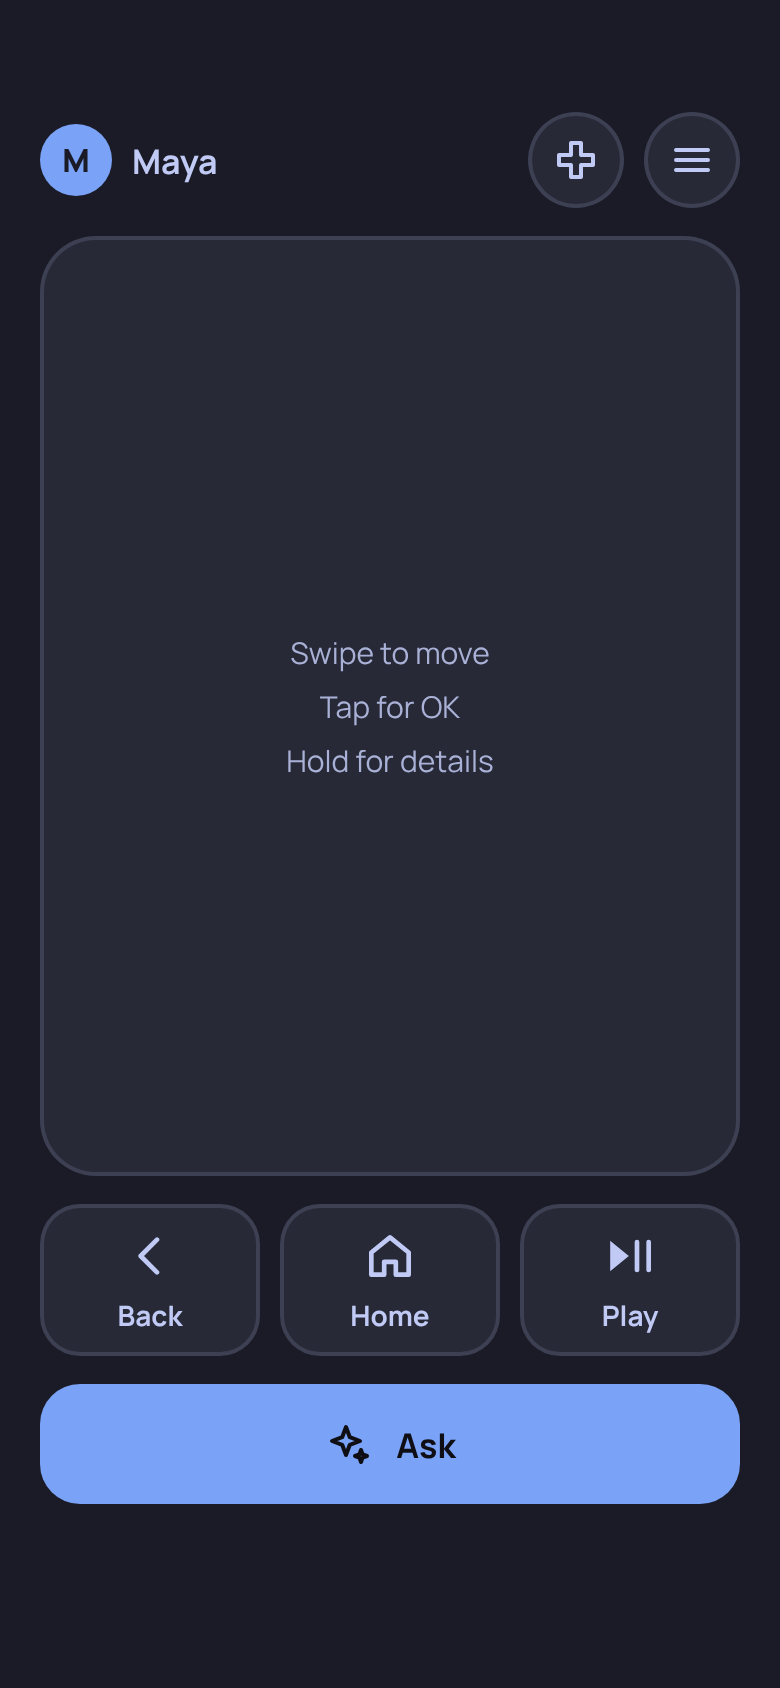
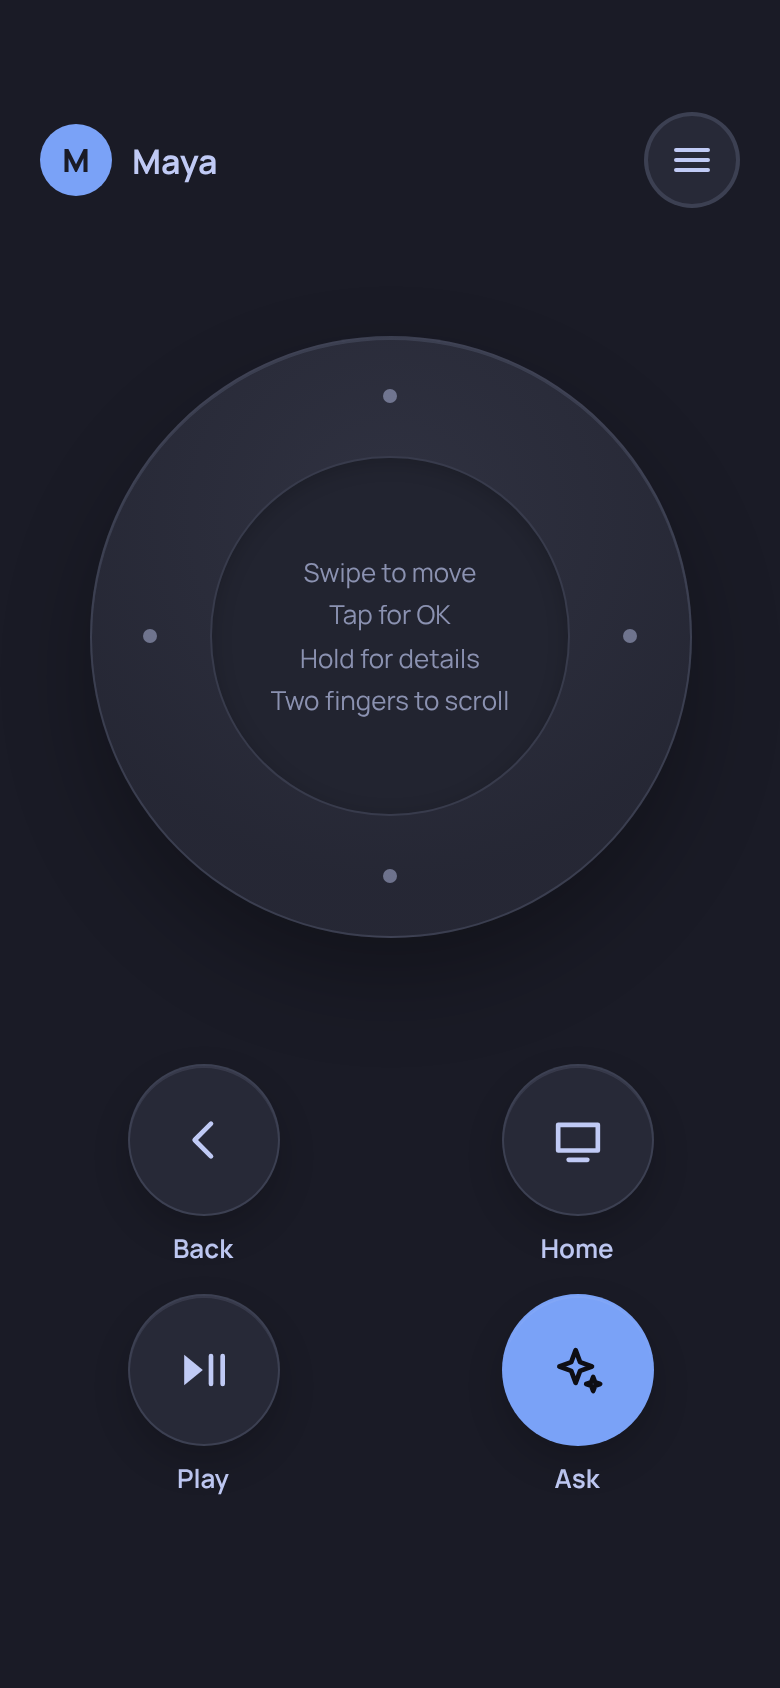
Show the new Glass home and remote in the README
The README's pictures were from before Glass home got its top row and
the Glass phone remote got its clickpad. This drops the big picture at
the top, adds Glass home at rest and with the apps slid in, retakes the
Glass light picture, the remote and the remote while a film plays, and
brings the text up to what the TV does now: picking the AI model, a
plan's usage, the clickpad, two-finger scrolling, arrows that reach
everything, Fit to screen, going back an update, every gaming platform,
and downloading the ISO from origai.tv.

The pictures are the real launcher and phone remote in Chromium against
the test box, with the same made-up household and the Blender
Foundation's open films. Terminal's, Cinema's and the typing picture
still match the screens, so they stay.

diff --git a/.github/README.md b/.github/README.md
@@ -14,10 +14,6 @@
   <a href="#install-it">Install it</a> · <a href="#what-you-get">What you get</a> · <a href="#questions">Questions</a>
 </p>
 
-<p align="center">
-  <img alt="OrigaiTV's home in the Glass look: your apps and a row of games over a big picture of the film you were watching" src="../branding/readme/home-glass.jpg">
-</p>
-
 ---
 
 OrigaiTV turns a small PC into the box under your TV.
@@ -26,7 +22,7 @@ OrigaiTV turns a small PC into the box under your TV.
 
 **It's yours to change.** Pick how home looks, how big things are, the colours and the background. And when an app is missing, you don't wait for someone to write it. You ask for it, and your TV makes it. That's the agentic part.
 
-**It's good for games.** Steam runs full screen for the games you own. Or ask for a small game of your own, and it's on home when it's done.
+**It's good for games.** Steam is here, and so is every other gaming platform Omarchy has, for the games you own. Or ask for a small game of your own, and it's on home when it's done.
 
 It works with any TV that has HDMI, because OrigaiTV runs on the box and not on the TV. A projector or an old monitor works too.
 
@@ -34,9 +30,18 @@ I built it because I wanted a TV I could just ask for things, and one I could ch
 
 ## What you get
 
+<p align="center">
+  <img alt="Home in the Glass look: the films you were watching on Jellyfin up top, and a frosted top row of six apps under them" src="../branding/readme/home-glass.jpg" width="49%">
+  <img alt="Glass home after pressing down: the top row stays up top, and the rest of your apps and a row of games slide in under it" src="../branding/readme/home-glass-apps.jpg" width="49%">
+</p>
+
+<p align="center"><i>Glass home. Press down, or Apps, and the rest of your apps slide in.</i></p>
+
 ### Easy to use
 
-- **Your phone is the remote.** Scan the code on the TV and that's it. There's no app to install. Swipe to move, tap for OK, and Back, Home and Play stay in the same place.
+- **Your phone is the remote.** Scan the code on the TV and that's it. There's no app to install. Swipe to move, tap for OK, and two fingers scroll the page. In the Glass look it's a round clickpad, and pressing its edge moves up, down, left or right. In Terminal and Cinema it's one big area to swipe.
+- **The arrows reach everything.** Up, down, left and right get to every button and poster on a page, even in an app that was made for a mouse. When there's nothing further, the page scrolls.
+- **Fits your TV.** Lots of TVs cut off the edges of the picture. Fit to screen is on from the start, so home and your apps sit inside a small margin. Setup shows four corner marks so you can fit the picture to your TV, and you can change it later in _Settings > Appearance_.
 - **Type on your phone, see it on the TV.** When the TV needs words, your phone's keyboard comes up by itself, and the TV shows each letter as you type it.
 - **Pick up where you stopped.** Home has what you were watching, one press away.
 - **Just ask.** "Play Sintel." "Continue my show." "What's new this week?" Type it or say it into your phone, and the answer shows on the TV.
@@ -46,25 +51,26 @@ I built it because I wanted a TV I could just ask for things, and one I could ch
 - **Hold OK on an app** to see who made it and what it connects to, or to quit it.
 
 <p align="center">
-  <img alt="The phone as the remote: a big area to swipe, with Back, Home, Play and Ask under it" src="../branding/readme/phone-remote.png" width="240">
-  <img alt="The phone while a film plays: what's on, pause, and the same buttons" src="../branding/readme/phone-playing.png" width="240">
+  <img alt="The phone as the remote in the Glass look: a round clickpad, with Back, Home, Play and Ask under it. Terminal and Cinema keep a big area to swipe" src="../branding/readme/phone-remote.png" width="240">
+  <img alt="The Glass remote while a film plays: what's on and how long is left, pause, and the same buttons" src="../branding/readme/phone-playing.png" width="240">
   <img alt="Typing a search on the phone: what you type shows on the TV as you type" src="../branding/readme/phone-typing.png" width="240">
 </p>
 
 ### Yours to change
 
-- **Three looks for home.** Terminal is tiles like windows, in a mono font. Glass puts frosted tiles over a big picture from one of your apps. Cinema has something to watch up top, then rows of your apps and shows. Change it whenever you like in _Settings > Appearance_.
+- **Three looks for home.** Terminal is tiles like windows, in a mono font. Glass is like the home on a TV box: a frosted top row of your favourite apps, with the films and shows of the one you're on above it. Cinema has something to watch up top, then rows of your apps and shows. Change it whenever you like in _Settings > Appearance_.
 - **Three sizes,** so it reads well from your couch. A 4K TV gets all three, and a 1080p TV gets two.
 - **Every Omarchy theme,** with its backgrounds, the moving ones too. Or use your own photos, or art from museums' open archives.
 - **A screen saver** that shows those pictures when the TV's idle.
 - **Build your own.** Can't find an app? Ask for it: a puzzle game, a better weather page, a slideshow of your photos. Your TV makes it while you keep watching, then puts it on home.
 - **Keep changing it.** Anything you made has "Change it". Say what you'd like different.
 - **What you make is yours.** It stays on your TV unless you save a copy.
-- **Edit home** on the TV, in any of the three looks, or from your phone. Put the apps you use first.
+- **Edit home** on the TV, in any of the three looks, or from your phone. Put the apps you use first. In Glass, you pick what goes in the top row, up to six.
+- **No limit on apps.** Glass and Cinema show every app you put on home. Terminal shows the first 12 and says where the rest are.
 
 | | | |
 | --- | --- | --- |
-| <img alt="Home in the Terminal look: tiles like windows, in a mono font" src="../branding/readme/home-terminal.jpg"> | <img alt="Home in the Glass look, with a light theme and a row of games" src="../branding/readme/home-glass-light.jpg"> | <img alt="Home in the Cinema look: a new film up top, then your apps and games" src="../branding/readme/home-cinema.jpg"> |
+| <img alt="Home in the Terminal look: tiles like windows, in a mono font" src="../branding/readme/home-terminal.jpg"> | <img alt="Home in the Glass look, with a light theme: films up top and the frosted top row of apps" src="../branding/readme/home-glass-light.jpg"> | <img alt="Home in the Cinema look: a new film up top, then your apps and games" src="../branding/readme/home-cinema.jpg"> |
 
 <p align="center"><i>Terminal, Glass and Cinema. Each one follows your theme.</i></p>
 
@@ -75,9 +81,10 @@ I built it because I wanted a TV I could just ask for things, and one I could ch
 
 ### Good for games
 
-- **Steam, full screen,** in Big Picture. Go back to home and your game keeps running.
+- **Every gaming platform Omarchy has.** Steam, RetroArch, Moonlight and the rest: [the list is in origaitv-apps](https://github.com/radomird/origaitv-apps#games). Pick them in setup, or later in _Settings > Home and apps > Games_. A few are made for a computer, so they need a mouse and keyboard.
+- **Full screen, and still there when you come back.** Steam opens in Big Picture. Go back to home and your game keeps running, even if the TV goes off.
 - **Games you ask for.** "Make me a puzzle game."
-- **A place for games on home.** In Glass and Cinema it's a row named Games, with Steam and the games you've made. In Terminal each game is a tile of its own.
+- **A place for games on home.** In Glass and Cinema it's a row named Games, with your gaming platforms and the games you've made. In Terminal each game is a tile of its own.
 - **Controllers.** Pair a Bluetooth controller in _Settings > Phones and controllers_. Hold its guide button to get from a game back to home.
 - **You'll know what your box can play.** Setup says it plainly. My little NUC gets "light games".
 
@@ -95,6 +102,7 @@ A few things I'd want to know first:
 
 - **Streaming won't be 4K.** The TV's own screens are, on a 4K TV. But the streaming apps play in a browser on Linux, and the services hold that to somewhere between SD and 1080p, with no HDR. If an app only plays in SD, [its entry in origaitv-apps](https://github.com/radomird/origaitv-apps#what-you-get) says so.
 - **Asking and making need an AI you already pay for.** Sign in with your Claude, ChatGPT or Grok plan during setup, or later in _Settings > AI_. Or add an API key: Claude, ChatGPT, Gemini, Grok and Muse all take one. It works for both as soon as it's connected. Everything else works without an AI.
+- **You pick the model.** _Settings > AI_ has one for asking and one for building, and you can pick another for each app before it's made. If you signed in with a plan, it also shows how much of the plan you've used, in %.
 - **It has no voice of its own.** Answers show on the TV. If you add an API key for an AI that has a voice (ChatGPT, Gemini or Grok), it says them too.
 - **I've tested it on one box,** mine. It should run on other x86_64 PCs, and I'd love to hear how it goes on yours.
 - **Installing erases the disk you pick.**
@@ -108,7 +116,7 @@ You'll need:
 - your phone
 - a keyboard, just long enough to tell the box to start from the stick
 
-1. Download the ISO from the newest release on [origaitv-iso's releases page](https://github.com/radomird/origaitv-iso/releases). Until 1.0 is out, that's a release candidate. Its notes have the download link. The file is named after its version, like `origaitv-1.0.0-rc3-x86_64.iso`, and it's about 6.7 GB. Want to be sure the download is mine? [origaitv-iso's README](https://github.com/radomird/origaitv-iso#getting-the-iso) has the four commands that check it.
+1. Download the ISO from [origai.tv/download](https://origai.tv/download). It's always the newest release. Until 1.0 is out, that's a release candidate. Right now it's 1.0.0-rc3 (`origaitv-1.0.0-rc3-x86_64.iso`, about 6.8 GB). Want to be sure the download is mine? origai.tv shows its checksum, and [origaitv-iso's README](https://github.com/radomird/origaitv-iso#getting-the-iso) has the four commands that check it.
 2. Write it to the stick with [balenaEtcher](https://etcher.balena.io/) on a Mac or Windows, or [caligula](https://github.com/ifd3f/caligula) on Linux.
 3. Start the box from the stick. On my NUC that's F10 as it powers on. Omarchy needs Secure Boot off, so turn it off in your box's firmware first if it's on. [Omarchy's manual](../manual/02-getting-started.md) has more on that.
 4. The TV shows a code. Scan it with your phone, pick the disk and tap "Erase and install". No phone to hand? Pick the disk with the keyboard and press Enter.
@@ -119,7 +127,7 @@ Want every question Omarchy's own installer asks (your keyboard layout, disk enc
 
 After that:
 
-- **Updates** are in _Settings > System > Updates_. See what's new, install it now or let it install overnight. If an update goes wrong, you can go back to the version before.
+- **Updates** are in _Settings > System > Updates_. See what's new, install it now or let it install overnight. If an update goes wrong, you can go back to the version before, and it tells you which one first.
 - **On a release candidate,** your TV gets early updates, each new build as it's made. To move it to the releases, run `origaitv channel stable` and then `origaitv update`.
 - **The Linux desktop** is Omarchy's, and it's still there. Super+Ctrl+Home takes you to it and back.
 - **Start setup again** with `origaitv setup reset`. Your profiles, phones and PIN stay.
@@ -144,6 +152,8 @@ Tried it on another box? [Tell me how it went](https://github.com/radomird/origa
 **Do I need an AI subscription?** Only to ask for things and to make apps. The remote, your apps, profiles and everything else work without one.
 
 **Which streaming services does it have?** Six: three now, and three coming soon. The list, and what each app can do, is in [origaitv-apps](https://github.com/radomird/origaitv-apps#what-you-get).
+
+**The edges of the picture are cut off. Can I fix that?** Yes. Many TVs zoom in a little. Fit to screen keeps everything inside a margin you set, in setup or in _Settings > Appearance_. If your TV has a setting to turn that zoom off (it's often called overscan), turning it off gives you the whole screen back.
 
 **Does it run on a Raspberry Pi?** No. It needs an x86_64 PC.
 
@@ -212,4 +222,4 @@ The films in the pictures are the Blender Foundation's open movies ([studio.blen
 
 ## Whose names these are
 
-Steam, Jellyfin, Immich and Plex are trademarks of their owners. So are the AI products named above, and the names and logos of the [streaming apps](https://github.com/radomird/origaitv-apps#what-you-get). I only name them to say what OrigaiTV works with. OrigaiTV isn't made or endorsed by any of them, and the code for the streaming apps is in `origaitv-apps`, not in this repo.
+Steam, RetroArch, Moonlight, Jellyfin, Immich and Plex are trademarks of their owners. So are the AI products named above, and the names and logos of the [streaming apps](https://github.com/radomird/origaitv-apps#what-you-get) and the [other gaming platforms](https://github.com/radomird/origaitv-apps#games). I only name them to say what OrigaiTV works with. OrigaiTV isn't made or endorsed by any of them, and the code for the streaming apps is in `origaitv-apps`, not in this repo.
